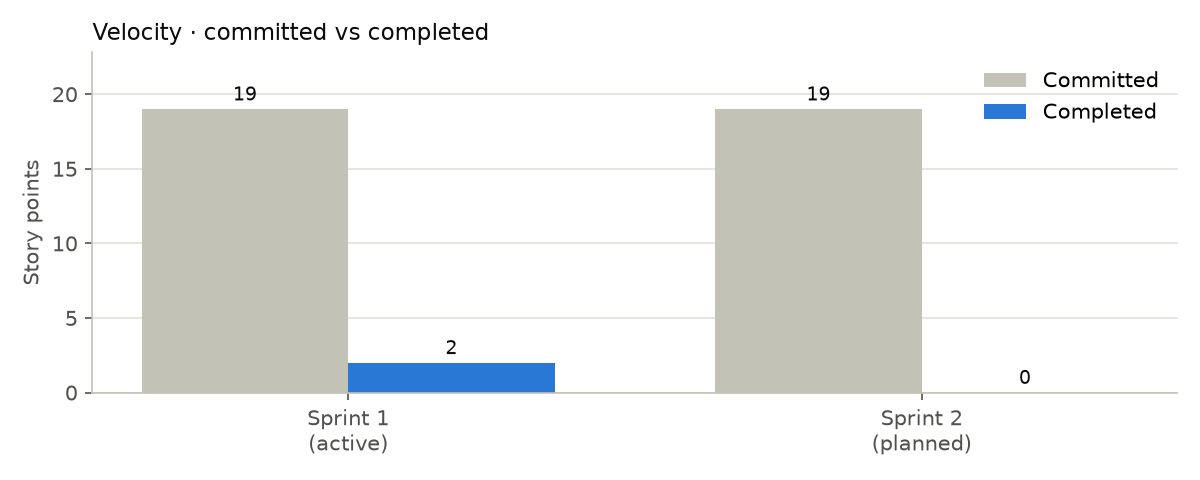
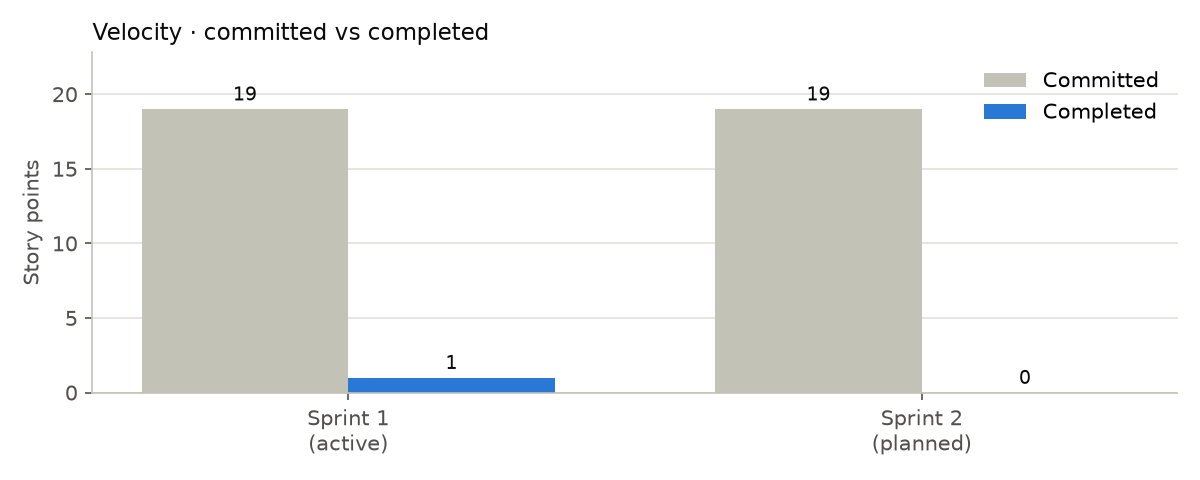
chore(sprint): 스프린트 지표 자동 갱신 [skip ci]

Changed region(s): [[0.2775, 0.7188, 0.4625, 0.8125]]

diff --git a/reports/sprint/LATEST.md b/reports/sprint/LATEST.md
@@ -1,15 +1,15 @@
 # 스프린트 분석 보고서
 
-- 생성: 2026-10-04 17:00 KST (GitHub Actions 자동 생성)
+- 생성: 2026-10-04 17:05 KST (GitHub Actions 자동 생성)
 - 현재 스프린트: Sprint 1 · 요구사항·설계
-- Velocity: 2 pts (진행 중 스프린트의 현재까지 완료분)
-- Cycle Time 중앙값: 0.1시간 (완료 이슈 2개)
+- Velocity: 1 pts (진행 중 스프린트의 현재까지 완료분)
+- Cycle Time 중앙값: 0.1시간 (완료 이슈 1개)
 
 ## 스프린트별
 
 | 스프린트 | 기간 | 상태 | 이슈 (완료/전체) | 포인트 (완료/계획) | Cycle Time 중앙값 |
 |---|---|---|---|---|---|
-| Sprint 1 · 요구사항·설계 | 2026-10-04 ~ 2026-10-17 | 진행 중 | 2/9 | 2/19 | 0.1시간 |
+| Sprint 1 · 요구사항·설계 | 2026-10-04 ~ 2026-10-17 | 진행 중 | 1/9 | 1/19 | 0.1시간 |
 | Sprint 2 · 크롤러·API v1 | 2026-10-18 ~ 2026-10-31 | 예정 | 0/6 | 0/19 | - |
 
 ![Burndown](../../docs/images/burndown.png)
@@ -21,7 +21,6 @@
 | 이슈 | 포인트 | Cycle Time | Lead Time | 종료 (KST) |
 |---|---|---|---|---|
 | #4 Issue/PR 템플릿과 라벨 체계 구성 | 1 | 0.1시간 | 0.2시간 | 10-04 16:59 |
-| #5 GitHub Project 칸반 보드 구성 | 1 | 0.1시간 | 0.2시간 | 10-04 17:00 |
 
 ## 정의
 

diff --git a/README.md b/README.md
@@ -220,14 +220,14 @@ _마지막 자동 갱신: 2026-10-04 16:49 KST · [주간 보고서](reports/wee
 - **Cycle Time**: 담당자 지정(작업 시작) → 이슈 종료
 
 <!-- SPRINT:START -->
-_마지막 자동 갱신: 2026-10-04 17:00 KST · [분석 보고서](reports/sprint/LATEST.md) · [JSON](metrics/sprint-latest.json)_
+_마지막 자동 갱신: 2026-10-04 17:05 KST · [분석 보고서](reports/sprint/LATEST.md) · [JSON](metrics/sprint-latest.json)_
 
 | 스프린트 | 기간 | 상태 | 이슈 (완료/전체) | 포인트 (완료/계획) | Cycle Time 중앙값 |
 |---|---|---|---|---|---|
-| Sprint 1 · 요구사항·설계 | 2026-10-04 ~ 2026-10-17 | 진행 중 | 2/9 | 2/19 | 0.1시간 |
+| Sprint 1 · 요구사항·설계 | 2026-10-04 ~ 2026-10-17 | 진행 중 | 1/9 | 1/19 | 0.1시간 |
 | Sprint 2 · 크롤러·API v1 | 2026-10-18 ~ 2026-10-31 | 예정 | 0/6 | 0/19 | - |
 
-Velocity **2 pts** (진행 중 스프린트의 현재까지 완료분) · Cycle Time 중앙값 **0.1시간** (n=2)
+Velocity **1 pts** (진행 중 스프린트의 현재까지 완료분) · Cycle Time 중앙값 **0.1시간** (n=1)
 
 ![Burndown](docs/images/burndown.png)
 
